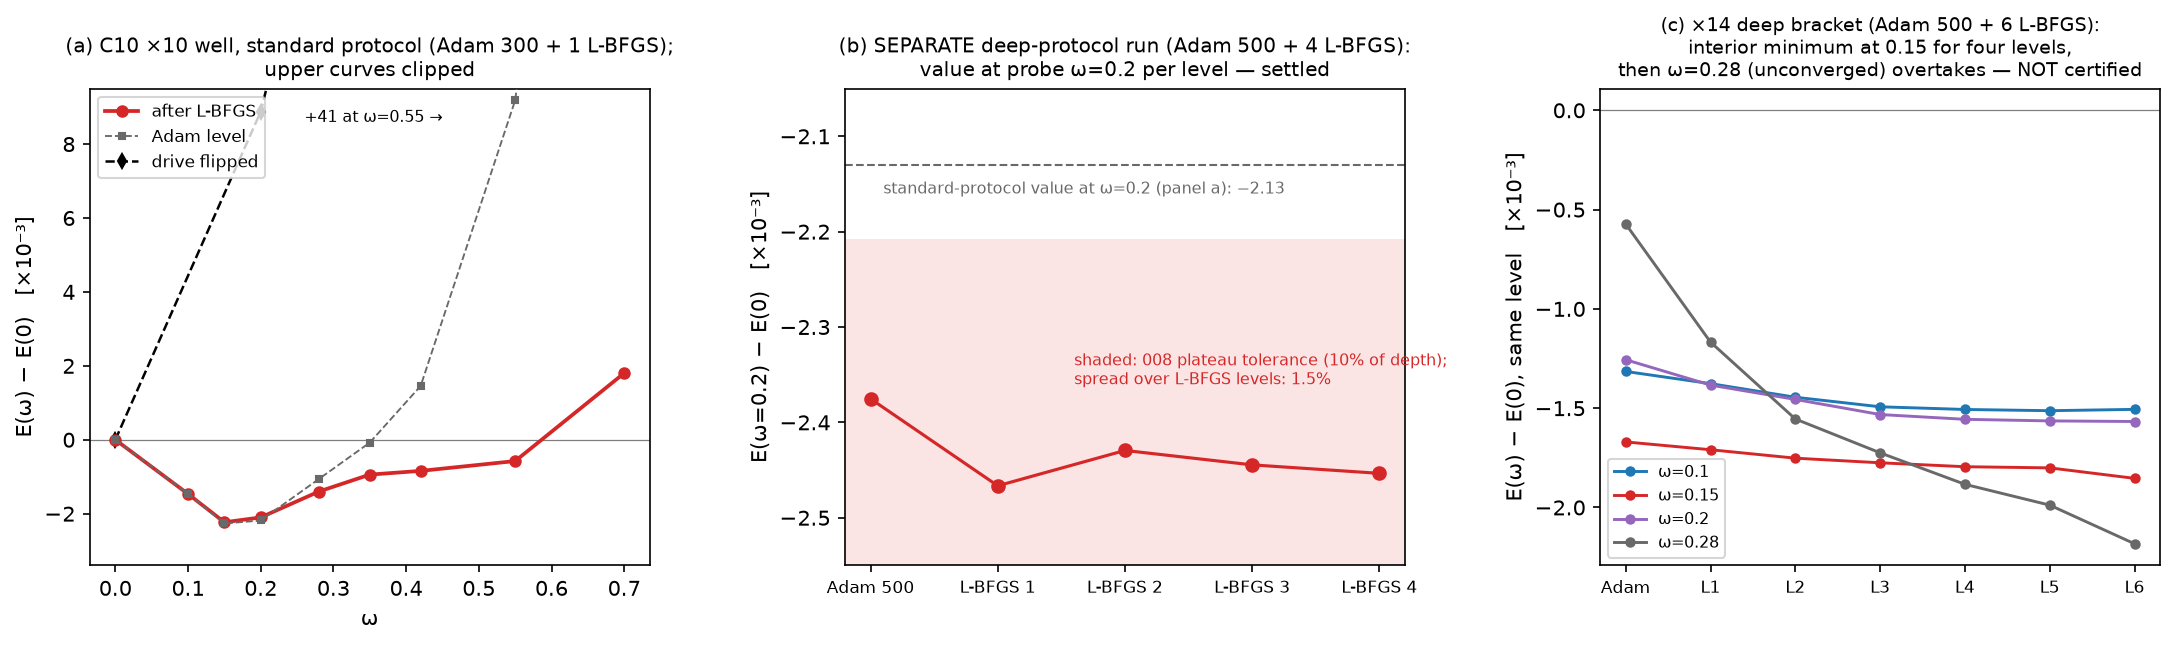
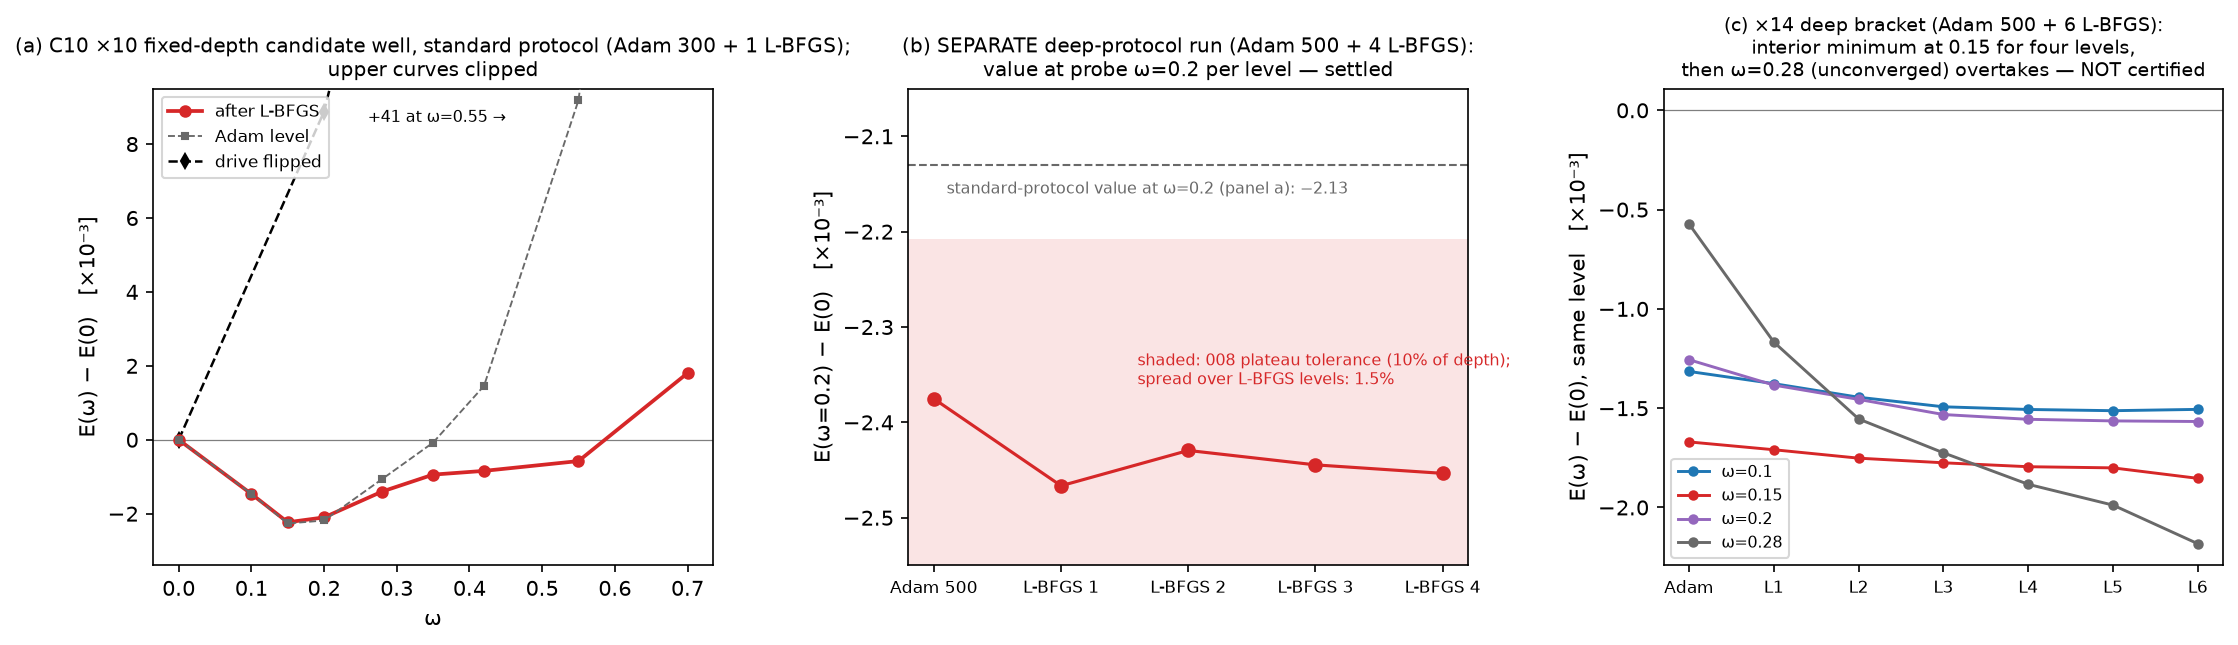
Review round 3 (PR #12): shared fresh base in the M5_FRESH path (state removed once up front, base regenerated once in pre_e4, later stages load it); remaining strong labels replaced -- T1' heading now the precise no-(s=0,k!=0) statement, root index row says 16 diagram-ray cells plus unscanned lambd
Claude-Session: https://claude.ai/code/session_01AXiDp4CUWrDnL7Bte478aD

diff --git a/reports/010-fundamental-grid-clock/static_kernel_exact.py b/reports/010-fundamental-grid-clock/static_kernel_exact.py
@@ -9,10 +9,11 @@ span-level question over Q:
      (sampled on 30 exact static configurations) modulo the three family
      identities, and the kernel of the joint (s, k) map on generic configs;
   3. asserts the grid-relevant statement: every kernel direction of s is also
-     a kernel direction of k — i.e. NO invariant in the span has s == 0 with
-     k != 0 (no exact pure-kinetic brake exists), and the s-kernel modulo the
-     identities is spanned by the reviewer's pure-linear P, which drops out
-     of H identically (degree-1 terms cancel in the Legendre transform, E0).
+     a kernel direction of k — i.e. no (s == 0, k != 0) direction exists in
+     the span (no static-free omega^4 brake), and the s-kernel modulo the
+     identities is spanned by the reviewer's pure-linear P. As a LINEAR
+     Lagrangian term P drops out of H (degree-1 cancellation, E0); under
+     squaring it is not inert — see gyro_family_lattice.py.
 
 Writes results/static_kernel_exact.json.
 """
@@ -104,9 +105,10 @@ def main():
     assert rank_G - rank_S == 1, \
         f'expected a 1-dim s-kernel modulo identities, got {rank_G - rank_S}'
     print('3. ker(s) == ker(s, k): every static-free direction is also '
-          'kinetic-free (pure linear). NO pure-kinetic invariant exists in '
-          'the span; the s-kernel modulo the 3 identities is 1-dimensional '
-          '(the reviewer\'s P), and degree-1 terms drop from H identically.')
+          'kinetic-free (pure linear). No (s == 0, k != 0) direction exists '
+          'in the span; the s-kernel modulo the 3 identities is '
+          '1-dimensional (the reviewer\'s P). As a linear term it drops '
+          'from H; under squaring it feeds the lambda-families.')
 
     with open('results/static_kernel_exact.json', 'w') as f:
         json.dump({'counterexample_confirmed': True,

diff --git a/reports/010-fundamental-grid-clock/make_figures.py b/reports/010-fundamental-grid-clock/make_figures.py
@@ -91,7 +91,7 @@ def fig1(e4, garm, e5, conf):
     axi.set_ylim(-8e-3, 1e-3)
     axi.axhline(0, color='k', lw=0.5, alpha=0.5)
     axi.axhline(-2.3e-3, color='tab:red', lw=0.7, ls='--')
-    axi.annotate('the \u00d710 well depth', (0.02, -2.9e-3), fontsize=6.5,
+    axi.annotate('\u00d710 candidate-well depth', (0.02, -2.9e-3), fontsize=6.5,
                  color='tab:red')
     axi.tick_params(labelsize=6)
     axi.set_title('linear zoom: all descend, no minima', fontsize=7)
@@ -126,7 +126,7 @@ def fig1(e4, garm, e5, conf):
     def_ = [r['E_total'] - om0 for r in fine]
     ax2.plot(omf, def_, 'o-', ms=5, lw=2.0, color='tab:red', zorder=5)
     i = int(np.argmin(def_))
-    ax2.annotate('\u00d710: the well', (omf[i], def_[i]), fontsize=9,
+    ax2.annotate('\u00d710: fixed-depth\ncandidate well', (omf[i], def_[i]), fontsize=8,
                  color='tab:red', fontweight='bold',
                  textcoords='offset points', xytext=(-30, -16))
     for tag, col in (('x14', 'tab:purple'), ('x20', 'tab:brown')):
@@ -177,7 +177,7 @@ def fig2(conf, e5, db=None):
     ax1.set_ylim(-3.4, 9.5)
     ax1.set_xlabel('\u03c9')
     ax1.set_ylabel('E(\u03c9) \u2212 E(0)   [\u00d710\u207b\u00b3]')
-    ax1.set_title('(a) C10 \u00d710 well, standard protocol '
+    ax1.set_title('(a) C10 \u00d710 fixed-depth candidate well, standard protocol '
                   '(Adam 300 + 1 L-BFGS);\nupper curves clipped',
                   fontsize=9.5)
     ax1.legend(fontsize=8, loc='upper left')

diff --git a/README.md b/README.md
@@ -19,7 +19,7 @@ behind every number, and a reproduction script.
 | 007 | [Core-weighted coefficients and the localized clock](reports/007-core-weighted-clock/) | c(M) and smooth topological coefficients are provably blind to boost dressings (clock-only mechanism); kinetic clock window opens at c ≈ −0.6 on the core; the local quartic delocalizes even under frozen masks, but the intensive quartic × core weight yields an interior ω\* = 0.8 with the boost density on ~100 core sites |
 | 008 | [The simplest quartic (I₁)² and the repaired-metric clock](reports/008-i1-squared-clock/) | (I₁)² ticks only in the repaired metric: the raw η contraction is inert (positive time part — measured no-go), while the G-form energy ansatz yields an interior well at ω = 0.35 (prediction 0.326) localized on ~100 sites; the completed square is convex — no dilution channel; the naive fundamental-Lagrangian reading is measured to run away (−γs² unbounded); γ-scaling ×4 confirmed, bounded γ budget (16γ breaks) |
 | 009 | [The rotational sector: protocol-limited ladder, extensive rigid rotations, and a constrained fixed-J surrogate](reports/009-rotational-clock/) | The env-frozen rotational ladder is not protocol-convergent (deep relaxation reorders the bracket — the well claim of the first version is withdrawn); rigid rotations split into a measured trichotomy: extensive (non-equivariant texture, I ~ L^2.93), trivial (equivariant texture = stabilizer, ζM ≡ 0), and finite (core-breaking texture on an equivariant background, I ~ L^0.14, core-localized) — with a bounded constrained fixed-J surrogate (not a derived Routh reduction) and the texture test showing equivariant frames are symmetric at any δ |
-| 010 | [The fundamental-reading clock grid](reports/010-fundamental-grid-clock/) | The u-decorated family closes at rank 18 over ℚ; the Legendre filter, a 1-dim purely-gyroscopic static kernel, and exact matrix-cap orbit zeros factorize the grid L = −I₁ + γ(I_j)² − V to {−I₁} × 16 cells; at frozen-tuned γ no cell ticks (brake evasion — the naked concavity), but the γ-window is two-sided and measured: interior fundamental-reading wells at ×10/×14/×20 at fixed relaxation depth (ω\* 0.1–0.2, drive-flip control kills them) — the deep-bracket run shows the minimum migrates under deeper relaxation, so converged-level existence stays open |
+| 010 | [The fundamental-reading clock grid](reports/010-fundamental-grid-clock/) | The u-decorated family closes at rank 18 over ℚ; the Legendre filter, a 1-dim purely-gyroscopic static kernel, and exact matrix-cap orbit zeros factorize the grid L = −I₁ + γ(I_j)² − V to {−I₁} × 16 diagram-ray cells (plus their gyroscopic λ-families, characterized but not scanned); at frozen-tuned γ no cell ticks (brake evasion — the naked concavity), but the γ-window is two-sided and measured: interior fundamental-reading wells at ×10/×14/×20 at fixed relaxation depth (ω\* 0.1–0.2, drive-flip control kills them) — the deep-bracket run shows the minimum migrates under deeper relaxation, so converged-level existence stays open |
 | 011 | [The equivariant hedgehog and the rotational sector](reports/011-third-class-rotor/) | The spherical-frame (axially equivariant) hedgehog relaxes stably with a constant axial line tension ≈ 8·10⁻⁴ for L ≥ 36 (observable-level plateau; the cost falls with δ and is negative at δ = 1/8); neither a spectral nor a frame-twist core deformation survives statics; prescribed-J minimization grows large inertia spontaneously from the equivariant seed but the excess is peripheral (orbital lever, centroid r ≈ 15) — no core-localized spin mode is stabilized by anything tried |
 
 ## How to reproduce

diff --git a/reports/010-fundamental-grid-clock/README.md b/reports/010-fundamental-grid-clock/README.md
@@ -42,7 +42,7 @@ a canonical Hamiltonian with an interior clock well. Results, in order:
    $H=H_0+A\omega^2+B\omega^3+C\omega^4$ with $A<0,C>0$ giving exactly one
    interior minimum, below $H(0)$, for **every** sign of the chirality
    term $B$ — always on the Legendre caustic (002 §6).
-3. **No exact pure-kinetic invariant exists — at the span level** (T1′,
+3. **No $(s\equiv0,\,k\not\equiv0)$ direction exists in the span** (T1′,
    corrected in review round 1): the original check covered only the 21
    individual representatives; the reviewer exhibited
    $P=I_2-4I_5+I_6$ ($=C0-4C2+C5$) with $s(P)\equiv0$ in the span. The
@@ -302,8 +302,9 @@ Deep-protocol probes and the finer window map (`e5_arms.py`,
 ## 6. Author-gated physics choices
 
 - The physical reading (fundamental vs energy) stays author-gated; this
-  report *adds* the measured fact that the fundamental reading has interior
-  wells in a bounded γ-window.
+  report *adds* the measured fact that the fundamental reading has
+  fixed-depth candidate wells in a bounded γ-window (the deep bracket is
+  unresolved).
 - The window position ($\gamma$ anchoring) and the drive channel (boost-x)
   tie into scale anchoring ($\omega^*=mc^2/\hbar$), unresolved as before.
 - Whether the article Lagrangian should adopt the C10 cell (the covariant
@@ -321,8 +322,10 @@ bash reproduce.sh          # CPU: E0-E3 exact suites (~10 min)
 `reproduce.sh` asserts the structural claims (counts, ranks, identities,
 theorem checks, orbit zeros, split guards) on CPU; with a CUDA device and
 `M5_RUN_LATTICE=1` it regenerates the base profile against the 004 oracle
-and reruns the lattice legs (`M5_FRESH=1` ignores the cached base profile
-and resumable ladder state for a fresh reproduction; hours). Committed JSONs
+and reruns the lattice legs (`M5_FRESH=1` removes the cached base profile
+and ladder state once up front; the base is regenerated a single time in
+`pre_e4.py` and every later stage loads that shared result; hours).
+Committed JSONs
 under `results/` carry every number quoted above; figures regenerate from
 the committed JSONs via `make_figures.py`.
 
